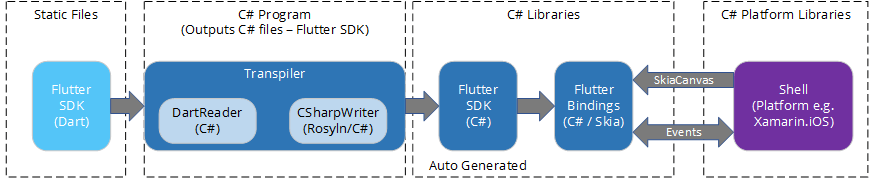
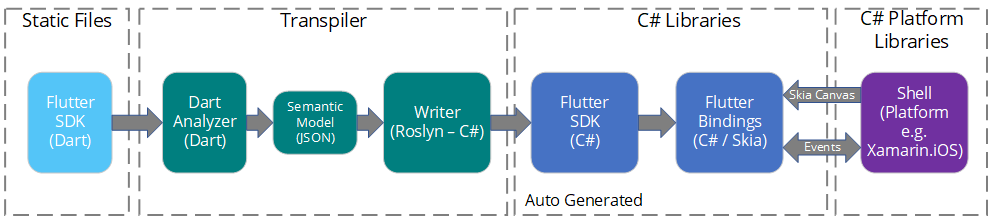
Transpiler readme

diff --git a/TRANSPILER_README.md b/TRANSPILER_README.md
@@ -1,0 +1,32 @@
+# Transpiler
+
+This document details how to run the transpiler. It is currently a work in progress.
+
+## Dart Analyzer
+
+In the AST folder is `analyzer.dart`, which uses the Dart Analyzer to create a Semantic Model of the Flutter SDK.
+
+### Running the Dart Analyzer
+
+1) The Flutter SDK isn't included in this project. Download the latest directly from [Flutter GitHub Repo](https://github.com/flutter/flutter/tree/master/packages/flutter/lib)
+and place this file directly in `flutter/lib` in this solution.
+
+2) Install [Dart SDK](https://www.dartlang.org/tools/sdk#install) on your computer.
+
+3) Open `analyzer.dart` and change `D:\\Dart\\dart-sdk` to the location of your Dart SDK.
+
+4) In a terminal window or command prompt, run `dart analyzer`.
+
+This will run through the Flutter SDK and create an equivalent *.sm.json file. This is the generated semantic model.
+
+## Semantic Model
+
+This is just a JSON file that contains the customized semantic model from Dart. It is output by the Dart Analyzer, and read by the CSharpWriter.
+
+## CSharp Writer
+
+Open the Dart2CSharpTranspiler and run the Console app, assuming all previous steps completed successfully.
+
+This will output the Flutter SDK in C# to the Flutter/FlutterSDK.csproj project.
+
+The FlutterBinding project is a manually created and edited project and is not part of the transpiling.
